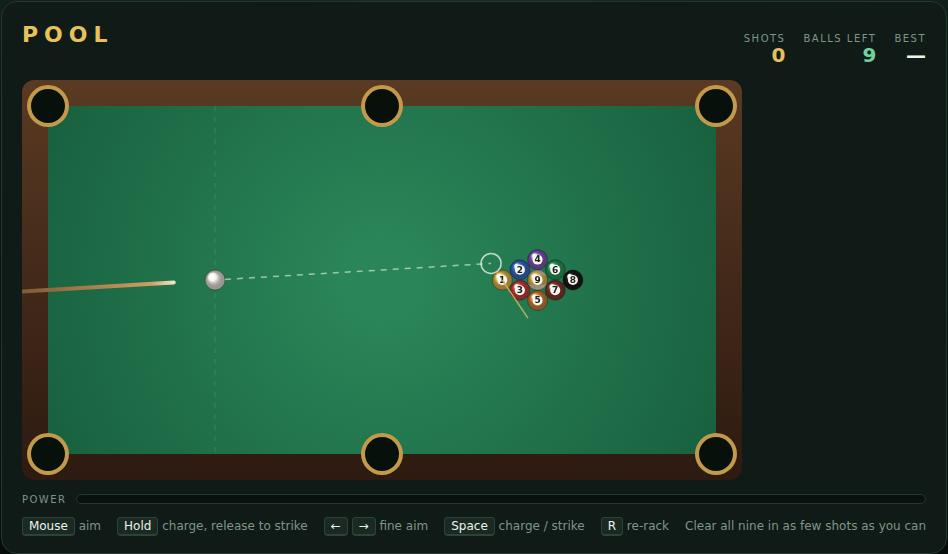
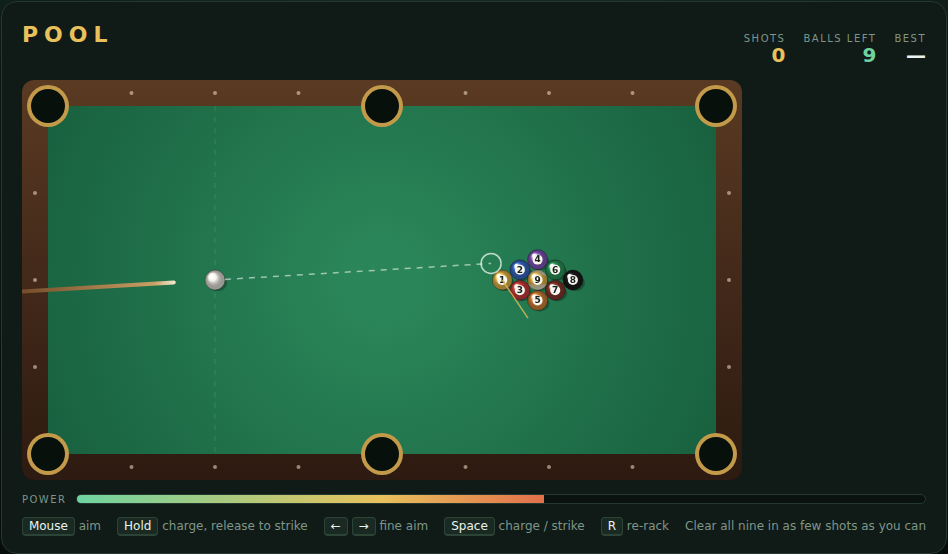
Polish Pool visuals and harden the cue-ball re-spot
- Draw rail diamond sights and a ground shadow under each ball; render all
  shadows before any ball so neighbours are not smudged.
- Shorten the cue stick so it overhangs the rail less.
- respotCue(): if the whole head string is blocked, scan the cloth for the
  first square clear of both balls and pockets instead of stacking the cue
  ball on top of another. Covered by a new spec (66 total).
- Refresh the screenshot.

Claude-Session: https://claude.ai/code/session_01RohucwvbRvybTLXnwgSSer

Changed region(s): [[0.0612, 0.8899, 0.5812, 0.9206]]

diff --git a/Pool/game.js b/Pool/game.js
@@ -141,15 +141,27 @@ function respotCue() {
     cue.sunk = false;
     cue.vx = 0;
     cue.vy = 0;
+    const free = () =>
+        balls.every(
+            (b) => b === cue || b.sunk || Math.hypot(b.x - cue.x, b.y - cue.y) >= 2 * BALL_R + 1
+        );
+
+    // First choice: the head spot, sliding back toward the head rail.
     cue.y = MID_Y;
     for (let x = HEAD_X; x >= PLAY_L + BALL_R; x -= 4) {
         cue.x = x;
-        const clash = balls.some(
-            (b) => b !== cue && !b.sunk && Math.hypot(b.x - cue.x, b.y - cue.y) < 2 * BALL_R + 1
-        );
-        if (!clash) return;
+        if (free()) return;
     }
-    cue.x = PLAY_L + BALL_R;
+    // Failing that, take the first clear square anywhere on the cloth.
+    for (let y = PLAY_T + BALL_R; y <= PLAY_B - BALL_R; y += 8) {
+        for (let x = PLAY_L + BALL_R; x <= PLAY_R - BALL_R; x += 8) {
+            cue.x = x;
+            cue.y = y;
+            if (free() && !pocketFor(cue)) return;
+        }
+    }
+    cue.x = HEAD_X;
+    cue.y = MID_Y;
 }
 
 // ---------------------------------------------------------------------------
@@ -170,10 +182,16 @@ function allStopped() {
 
 /** Elastic-ish impulse between two equal-mass balls, plus overlap separation. */
 function collidePair(a, b) {
-    const dx = b.x - a.x;
-    const dy = b.y - a.y;
-    const dist = Math.hypot(dx, dy);
-    if (dist === 0 || dist >= 2 * BALL_R) return;
+    let dx = b.x - a.x;
+    let dy = b.y - a.y;
+    let dist = Math.hypot(dx, dy);
+    if (dist >= 2 * BALL_R) return;
+    if (dist === 0) {
+        // Exactly coincident centres have no normal; nudge them apart.
+        dx = 0.01;
+        dy = 0;
+        dist = 0.01;
+    }
 
     const nx = dx / dist;
     const ny = dy / dist;
@@ -469,12 +487,14 @@ function drawTable() {
     }
 }
 
-function drawBall(b) {
+function drawBallShadow(b) {
     ctx.fillStyle = 'rgba(0, 0, 0, 0.28)';
     ctx.beginPath();
     ctx.ellipse(b.x + 2.5, b.y + 3, BALL_R * 0.95, BALL_R * 0.8, 0, 0, Math.PI * 2);
     ctx.fill();
+}
 
+function drawBall(b) {
     const grad = ctx.createRadialGradient(
         b.x - BALL_R * 0.35, b.y - BALL_R * 0.4, BALL_R * 0.15,
         b.x, b.y, BALL_R
@@ -575,6 +595,10 @@ function drawAim() {
 function draw() {
     ctx.clearRect(0, 0, CANVAS_W, CANVAS_H);
     drawTable();
+    // Shadows first, so no ball is smudged by a neighbour's shadow.
+    for (const b of balls) {
+        if (!b.sunk) drawBallShadow(b);
+    }
     for (const b of balls) {
         if (!b.sunk) drawBall(b);
     }

diff --git a/Pool/tests/pool.spec.js b/Pool/tests/pool.spec.js
@@ -599,6 +599,42 @@ test.describe('Pool', () => {
             expect(clear).toBe(true);
         });
 
+        test('a blocked head spot pushes the cue ball somewhere legal', async ({ page }) => {
+            const result = await page.evaluate(() => {
+                // Wall the whole head string off with object balls.
+                balls.slice(1).forEach((b, i) => {
+                    b.x = PLAY_L + BALL_R + i * 20.5;
+                    b.y = (PLAY_T + PLAY_B) / 2;
+                });
+                const pocket = pockets[0];
+                cueBall.x = pocket.x + 60;
+                cueBall.y = pocket.y + 60;
+                state = 'rolling';
+                cueBall.vx = -300;
+                cueBall.vy = -300;
+                for (let i = 0; i < 600 && state === 'rolling'; i++) step(1 / 240);
+                return {
+                    sunk: cueBall.sunk,
+                    clear: balls
+                        .slice(1)
+                        .filter((b) => !b.sunk)
+                        .every((b) => Math.hypot(b.x - cueBall.x, b.y - cueBall.y) >= 2 * BALL_R),
+                    inside:
+                        cueBall.x >= PLAY_L + BALL_R &&
+                        cueBall.x <= PLAY_R - BALL_R &&
+                        cueBall.y >= PLAY_T + BALL_R &&
+                        cueBall.y <= PLAY_B - BALL_R,
+                    outOfPocket: pockets.every(
+                        (p) => Math.hypot(cueBall.x - p.x, cueBall.y - p.y) >= POCKET_R
+                    ),
+                };
+            });
+            expect(result.sunk).toBe(false);
+            expect(result.clear).toBe(true);
+            expect(result.inside).toBe(true);
+            expect(result.outOfPocket).toBe(true);
+        });
+
         test('scratching does not sink object balls', async ({ page }) => {
             await page.evaluate(() => {
                 const pocket = pockets[0];

diff --git a/Pool/DESIGN.md b/Pool/DESIGN.md
@@ -18,8 +18,10 @@ contact point, and judge how much power the cushions will eat.
 - Sinking **any** object ball in **any** pocket is legal and permanent.
 - Every stroke of the cue counts as one shot.
 - **Scratch** — pocketing the cue ball — costs one extra shot as a penalty and
-  the cue ball is re-spotted on the head spot (nudged left if that spot is
-  occupied).
+  the cue ball is re-spotted on the head spot. If that spot is occupied the ball
+  slides back along the head string toward the rail; if the whole head string is
+  blocked, `respotCue()` falls back to a coarse scan of the cloth for the first
+  square that is clear of other balls and clear of a pocket.
 - The rack is cleared when all nine object balls are down. Final score is the
   shot count; lower is better.
 - `R` re-racks at any time.

diff --git a/Pool/README.md b/Pool/README.md
@@ -54,7 +54,7 @@ assumptions behind the ruleset.
 npx playwright test Pool/tests/
 ```
 
-65 Playwright specs cover the rack layout, aiming and power, the collision and
+66 Playwright specs cover the rack layout, aiming and power, the collision and
 cushion physics (including that balls never tunnel out of the table or end up
 overlapping), pocketing and scratches, the win flow and personal best, and the
 rendering.
